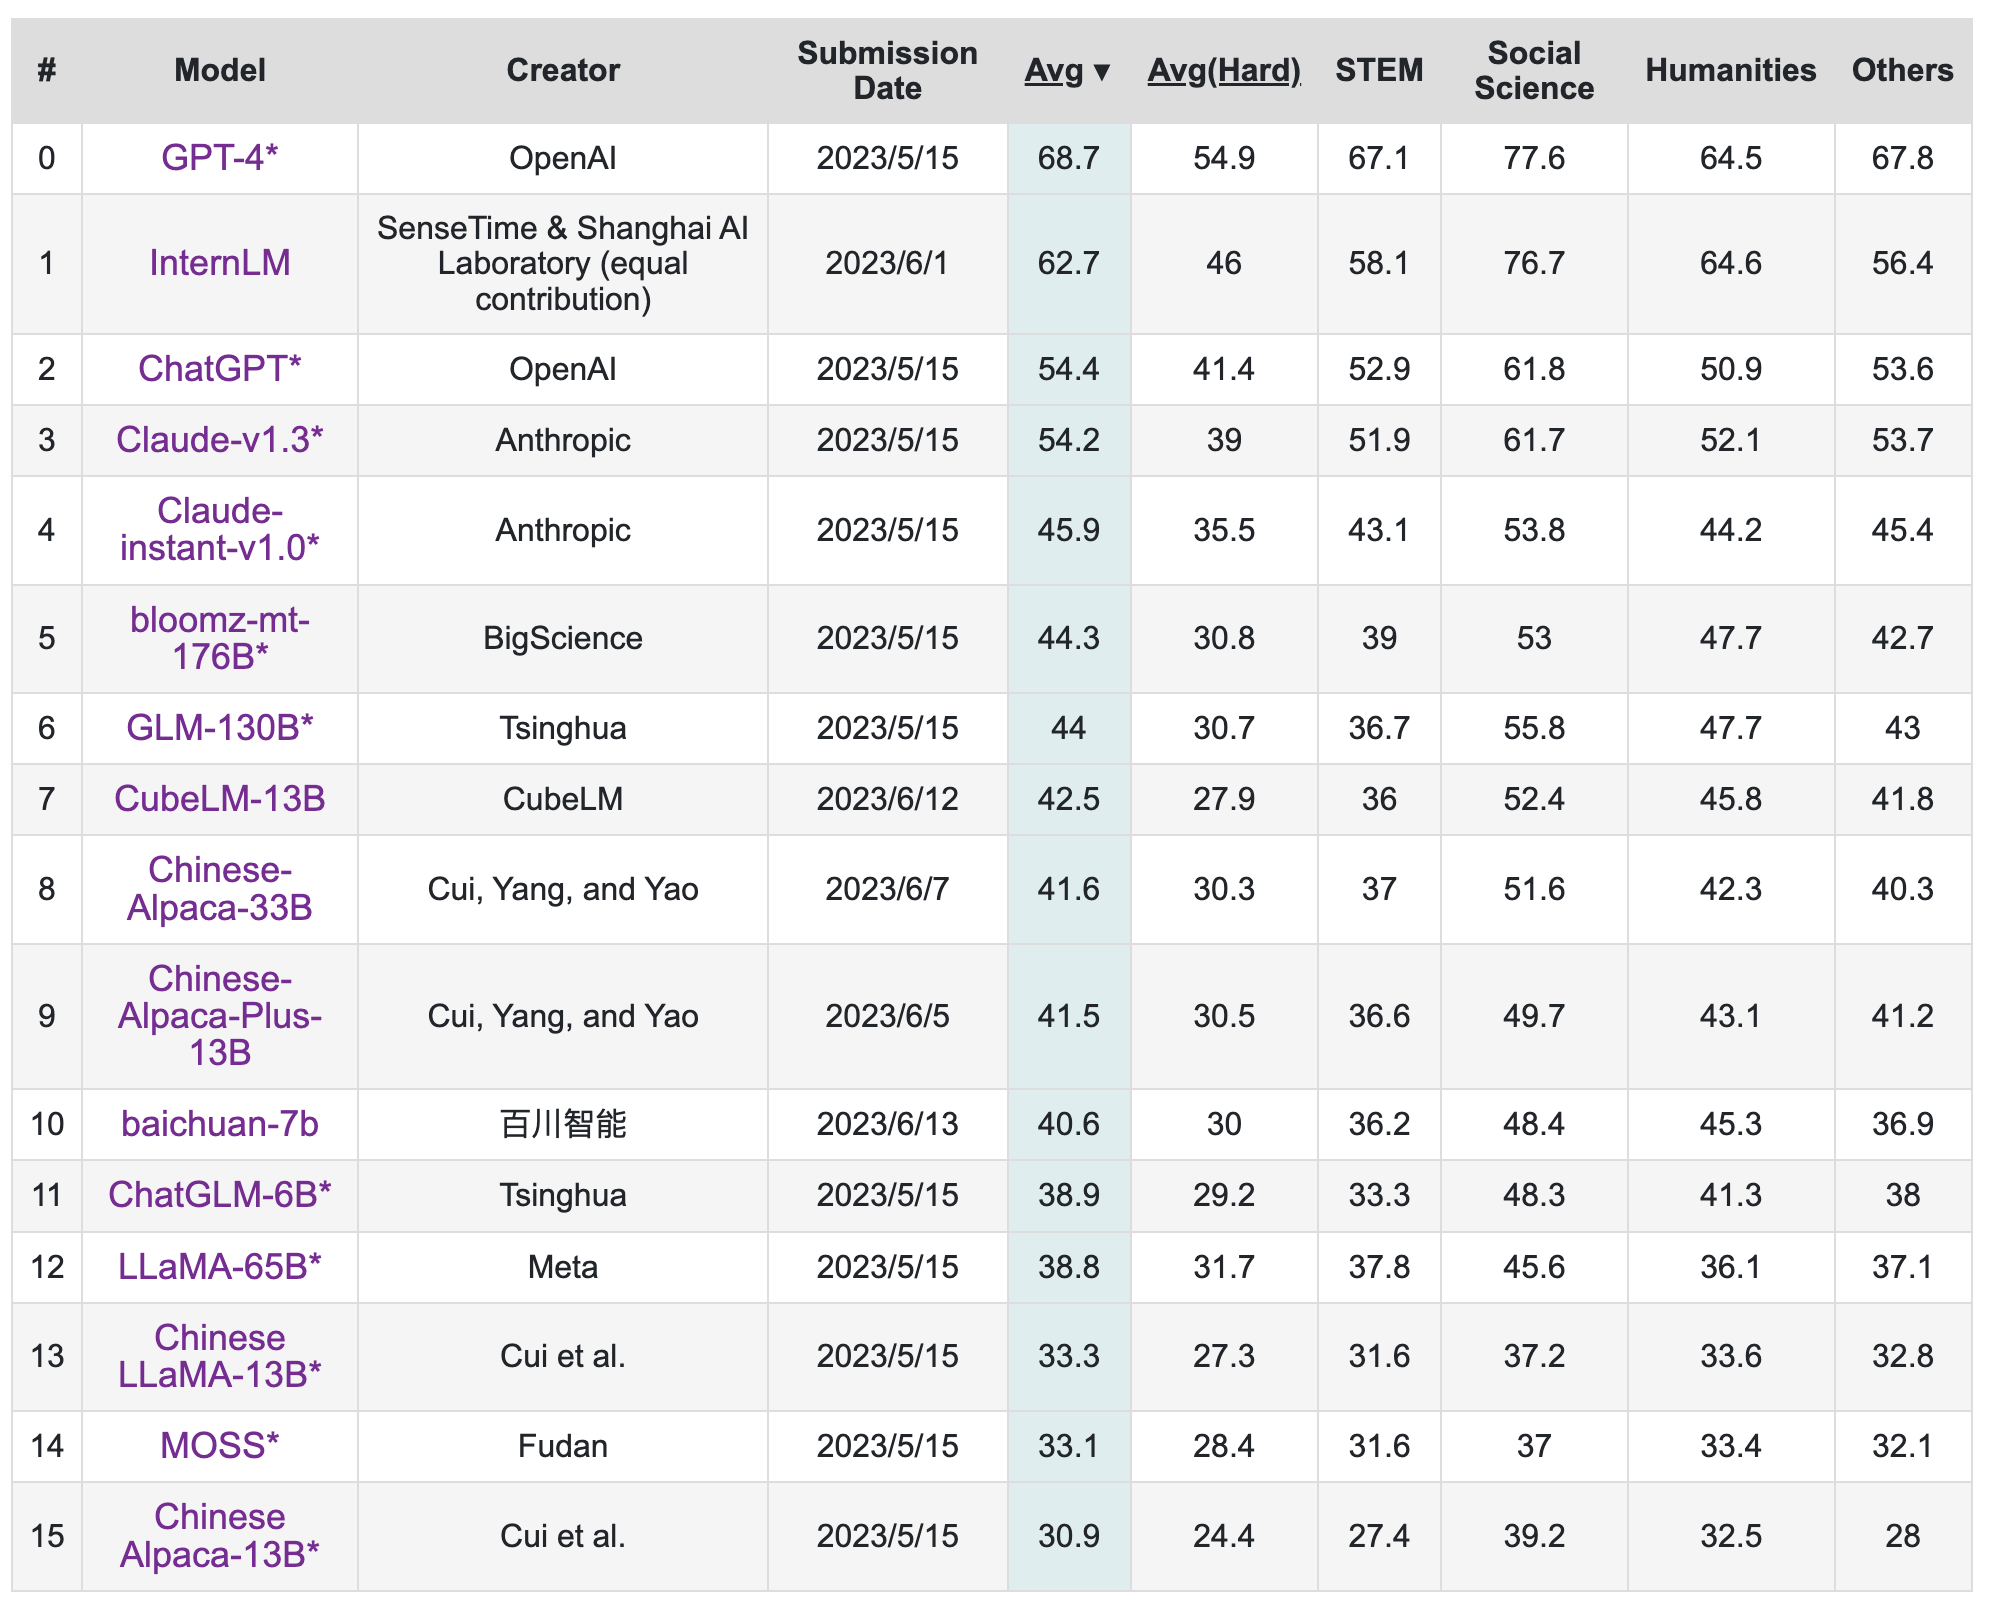
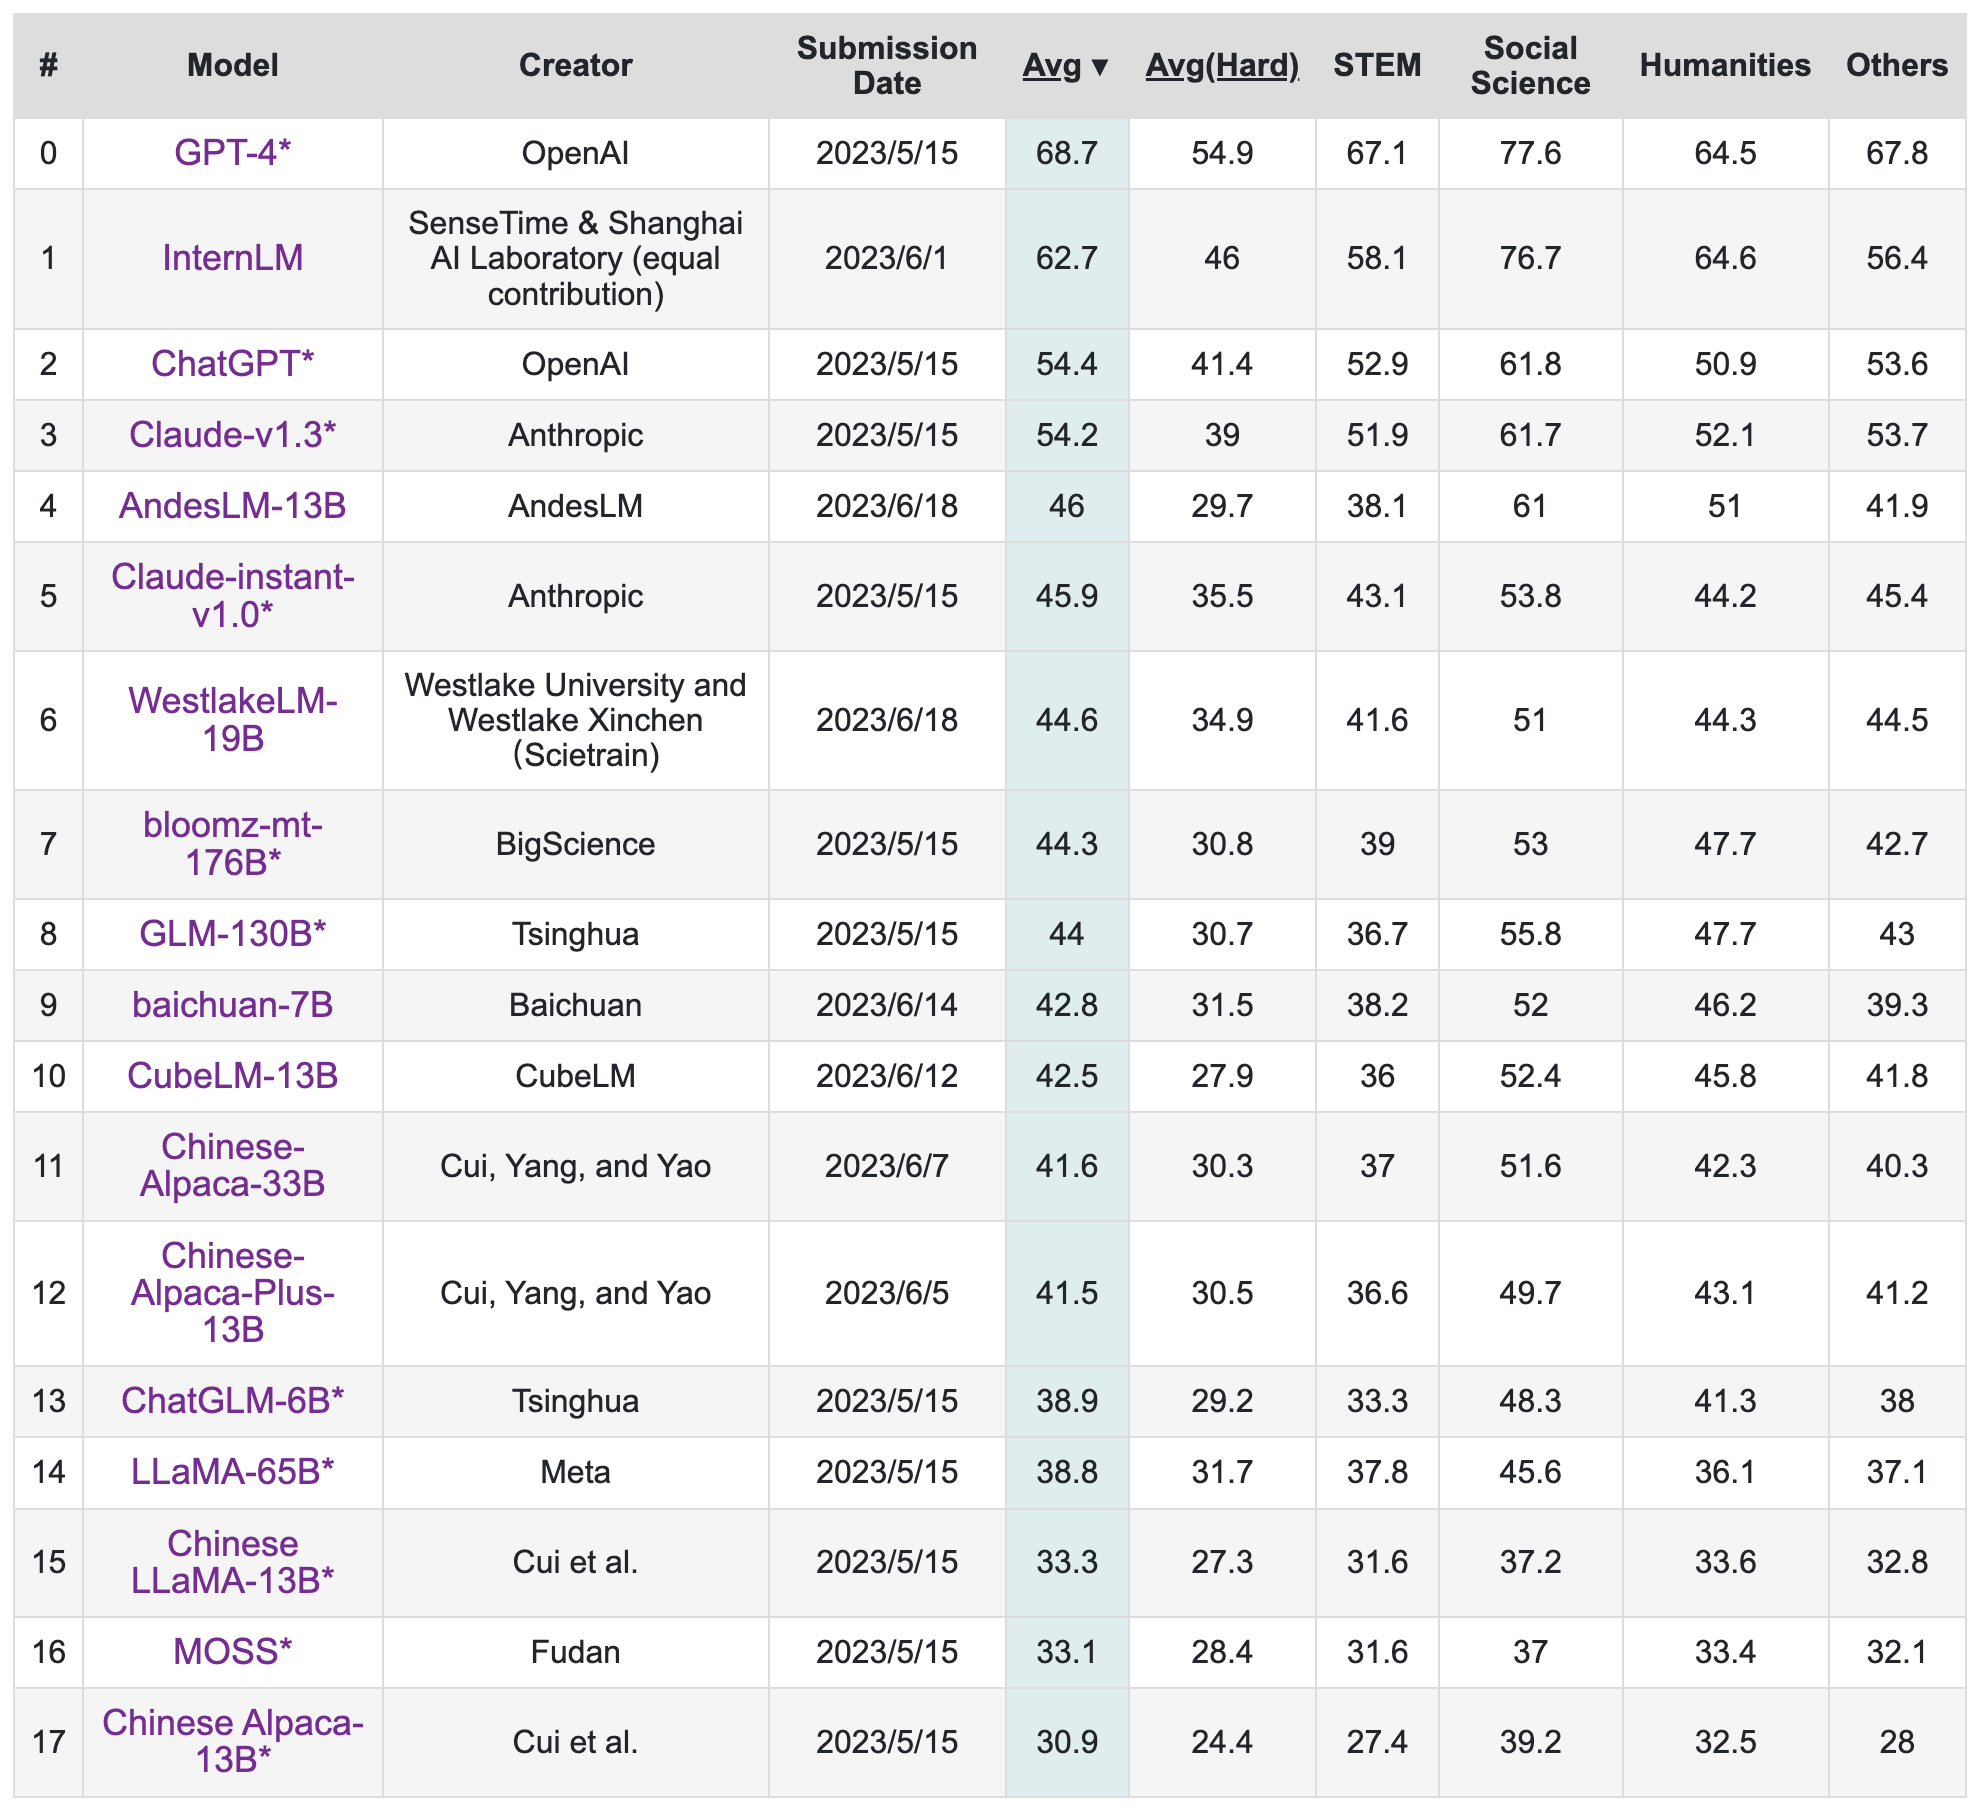
新增WizardLM，更新了部分榜单

diff --git a/README.md b/README.md
@@ -378,6 +378,12 @@ ChatGPT爆火出圈，国内很多高校、研究机构和企业都发出类似C
 
         该项目开源地址是：https://github.com/TigerResearch/TigerBot
 
+### WizadLM（更新于2023年6月20日）
+ 
+        该模型是微软提出的在LLaMa基础上的微调模型，其核心采用了一种Evol-Instruct（进化指令）的思想。Evol-Instruct使用LLM生成大量不同复杂度级别的指令数据，其基本思想是从一个简单的初始指令开始，然后随机选择深度进化（将简单指令升级为更复杂的指令）或广度进化（在相关话题下创建多样性的新指令）。同时，其还提出淘汰进化的概念，即采用指令过滤器来淘汰出失败的指令。该模型以其独到的指令加工方法，一举夺得AlpacaEval的开源模型第一名。同时该团队又发布了WizardCoder-15B大模型，该模型专注代码生成，在HumanEval、HumanEval+、MBPP以及DS1000四个代码生成基准测试中，都取得了较好的成绩。
+
+        该项目开源地址是：https://github.com/nlpxucan/WizardLM
+
 ## 三、通向AGI的开源之路
 
         ChatGPT的出现使大家振臂欢呼AGI时代的到来，是打开通用人工智能的一把关键钥匙。但ChatGPT仍然是一种人机交互对话形式，针对你唤醒的指令问题进行作答，还没有产生通用的自主的能力。但随着AutoGPT的出现，人们已经开始向这个方向大跨步的迈进。
@@ -436,7 +442,7 @@ ChatGPT爆火出圈，国内很多高校、研究机构和企业都发出类似C
 
         榜单部分如下，详见：https://cevalbenchmark.com/static/leaderboard.html
 
-        更新于2023年6月13日
+        更新于2023年6月20日
 
 ![C-Eval  更新于2023年6月13日](images/ceval.png)
 
@@ -456,7 +462,7 @@ ChatGPT爆火出圈，国内很多高校、研究机构和企业都发出类似C
 
         榜单部分如下，详见：https://tatsu-lab.github.io/alpaca_eval/
 
-                更新于2023年6月15日
+                更新于2023年6月20日
 
 ![AlpacaEval 更新于2023年6月15日](images/AlpacaEval.png)
 
